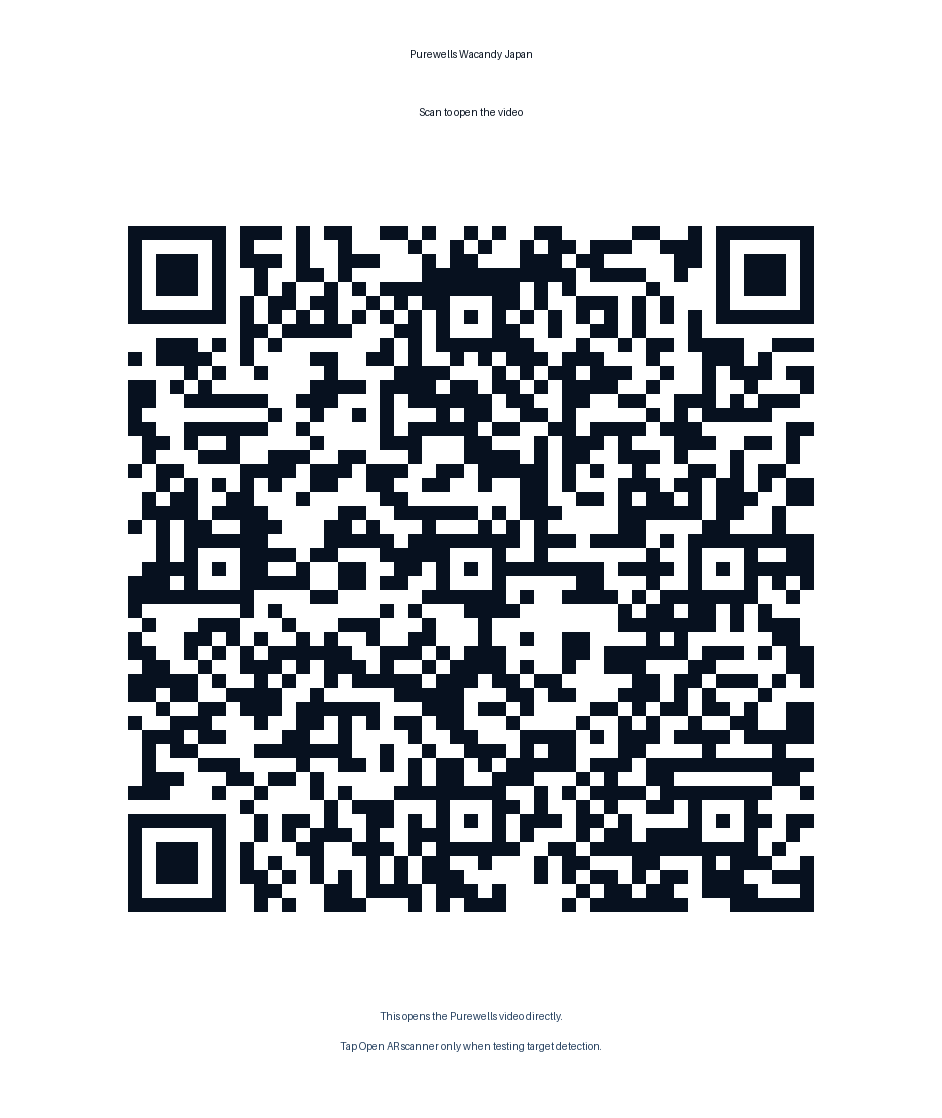
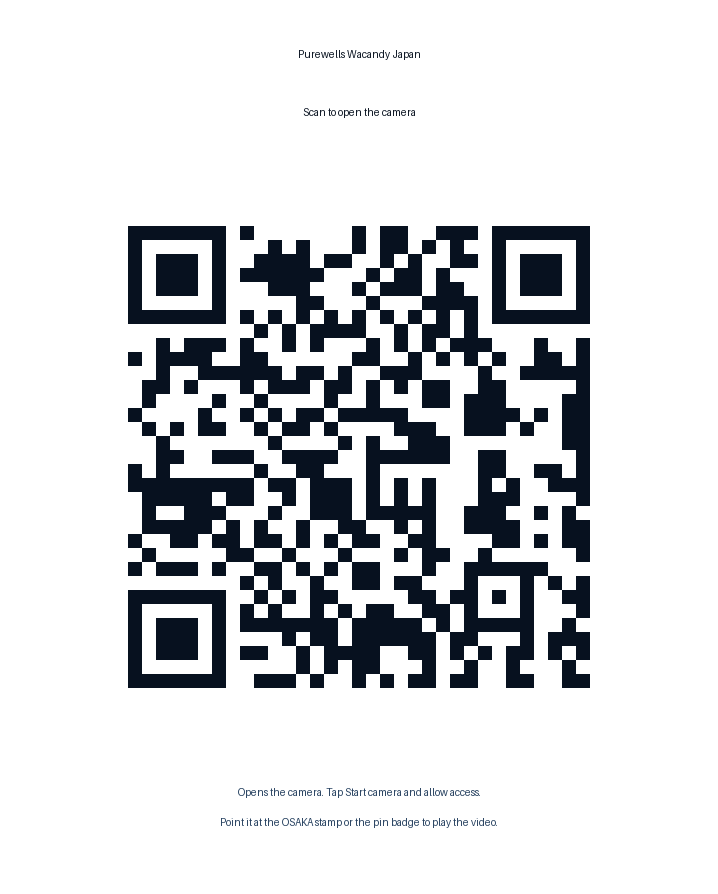
Point the QR at the camera instead of the video player
The QR is the entry to the AR experience, not a link to the video: it should
open the camera and nothing else, and the video should play only once that
camera is pointed at the OSAKA stamp or the pin badge. It was encoding
?mode=video, which opened the plain player instead.

/scan already ignores that parameter, so the codes in circulation behave
correctly. This is for reprints - the encoded URL and the printed captions now
say what the code actually does.

Claude-Session: https://claude.ai/code/session_01WGKt6fJUerTsLsPL9xS3tP

diff --git a/scripts/create_purewells_qr.py b/scripts/create_purewells_qr.py
@@ -3,8 +3,11 @@ from pathlib import Path
 import qrcode
 from PIL import Image, ImageDraw, ImageFont
 
-SCAN_URL = "https://frankincenseworld.com/scan/purewells-wacandy-japan?mode=video"
-OUTPUT_DIR = Path("/home/ubuntu/ar-vision-studio-local/public/ar-entry")
+# The QR only opens the camera. The video belongs to the physical objects: it plays once the
+# camera is pointed at the stamp or the pin badge, not on arrival. The old value carried
+# ?mode=video, which opened the plain video player and skipped the AR entirely.
+SCAN_URL = "https://www.frankincenseworld.com/"
+OUTPUT_DIR = Path(__file__).resolve().parent.parent / "public" / "ar-entry"
 OUTPUT_DIR.mkdir(parents=True, exist_ok=True)
 
 qr = qrcode.QRCode(
@@ -32,7 +35,7 @@ try:
 except OSError:
     title_font = body_font = small_font = ImageFont.load_default()
 
-lines = ["Purewells Wacandy Japan", "Scan to open the video"]
+lines = ["Purewells Wacandy Japan", "Scan to open the camera"]
 y = 48
 for i, line in enumerate(lines):
     font = title_font if i == 0 else body_font
@@ -42,8 +45,8 @@ for i, line in enumerate(lines):
 
 canvas.paste(qr_img, (padding, header_height))
 footer_lines = [
-    "This opens the Purewells video directly.",
-    "Tap Open AR scanner only when testing target detection.",
+    "Opens the camera. Tap Start camera and allow access.",
+    "Point it at the OSAKA stamp or the pin badge to play the video.",
 ]
 y = header_height + qr_img.height + 42
 for line in footer_lines:
